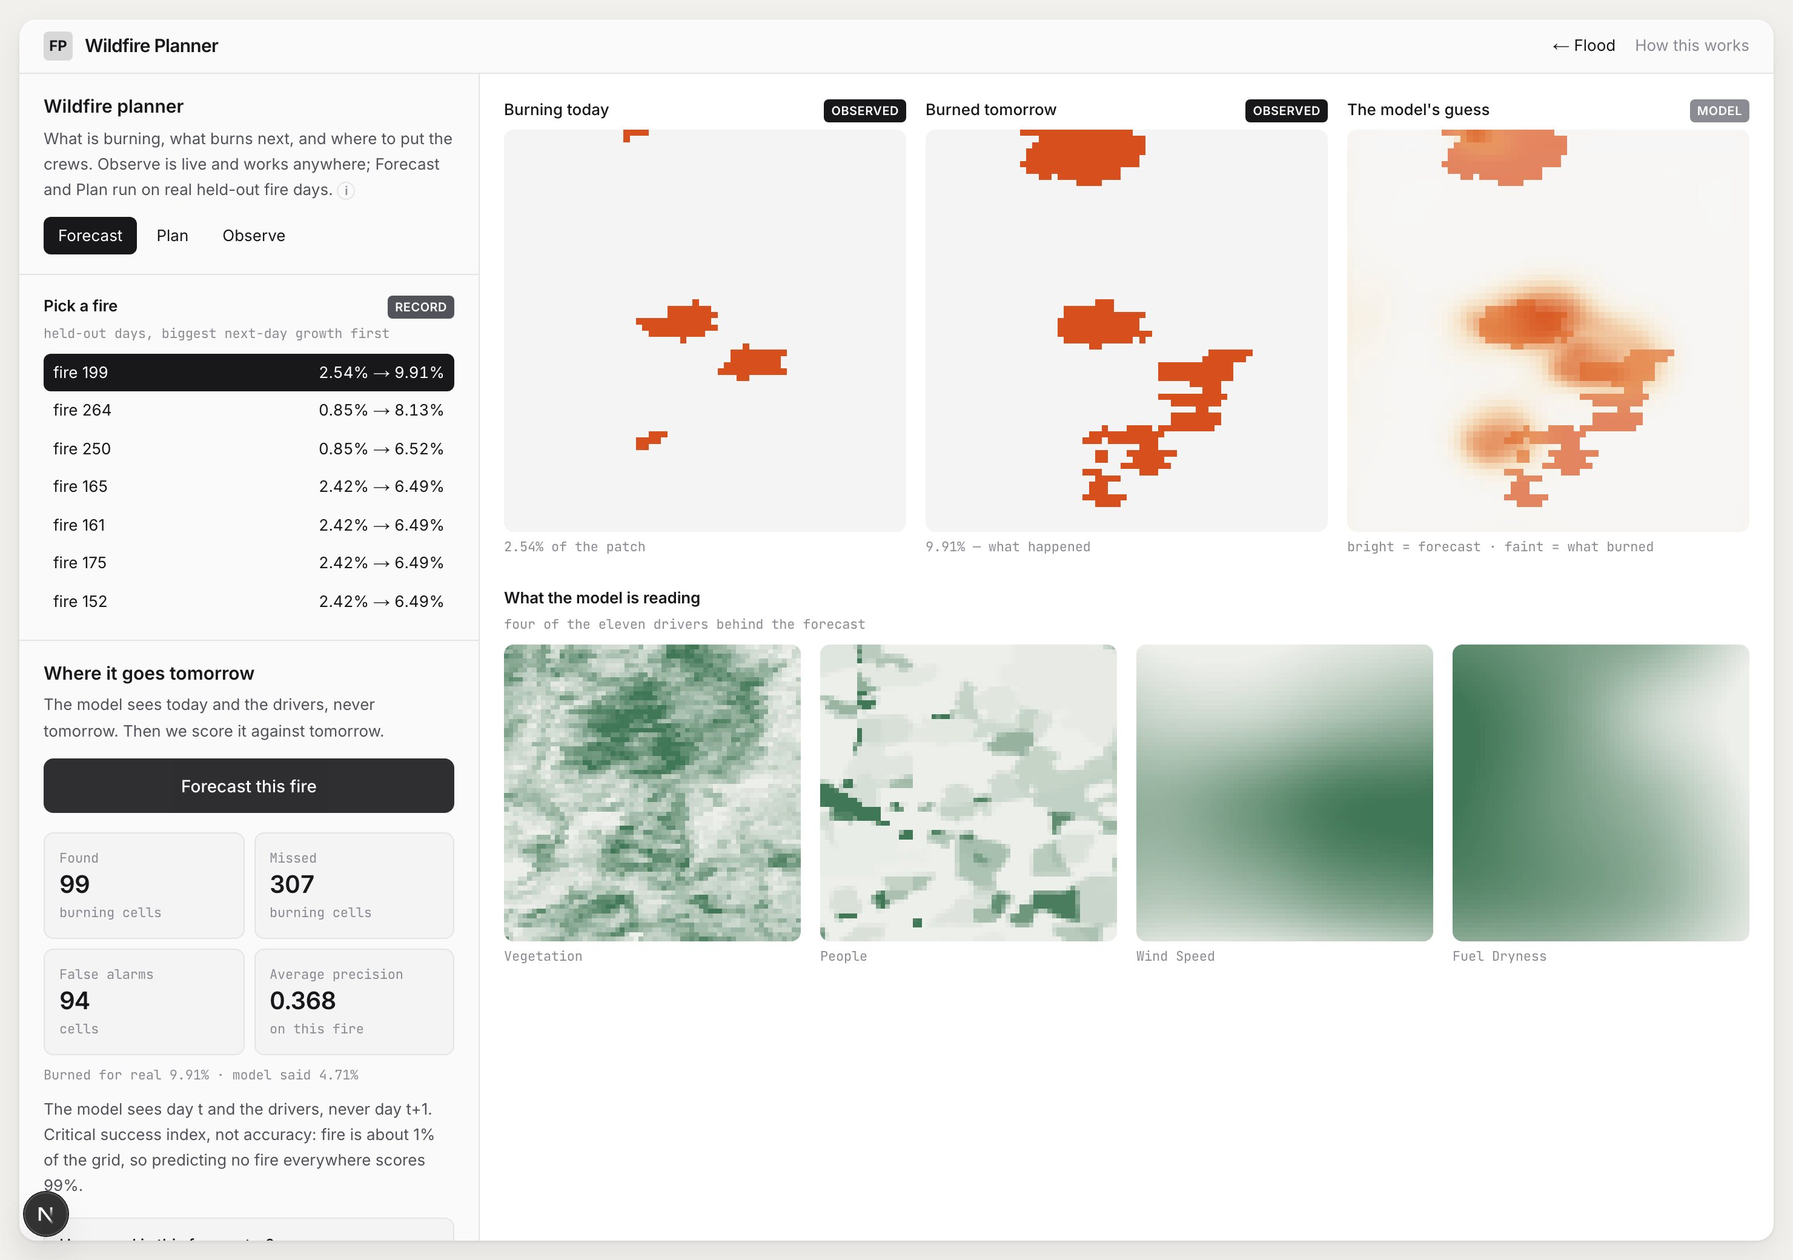
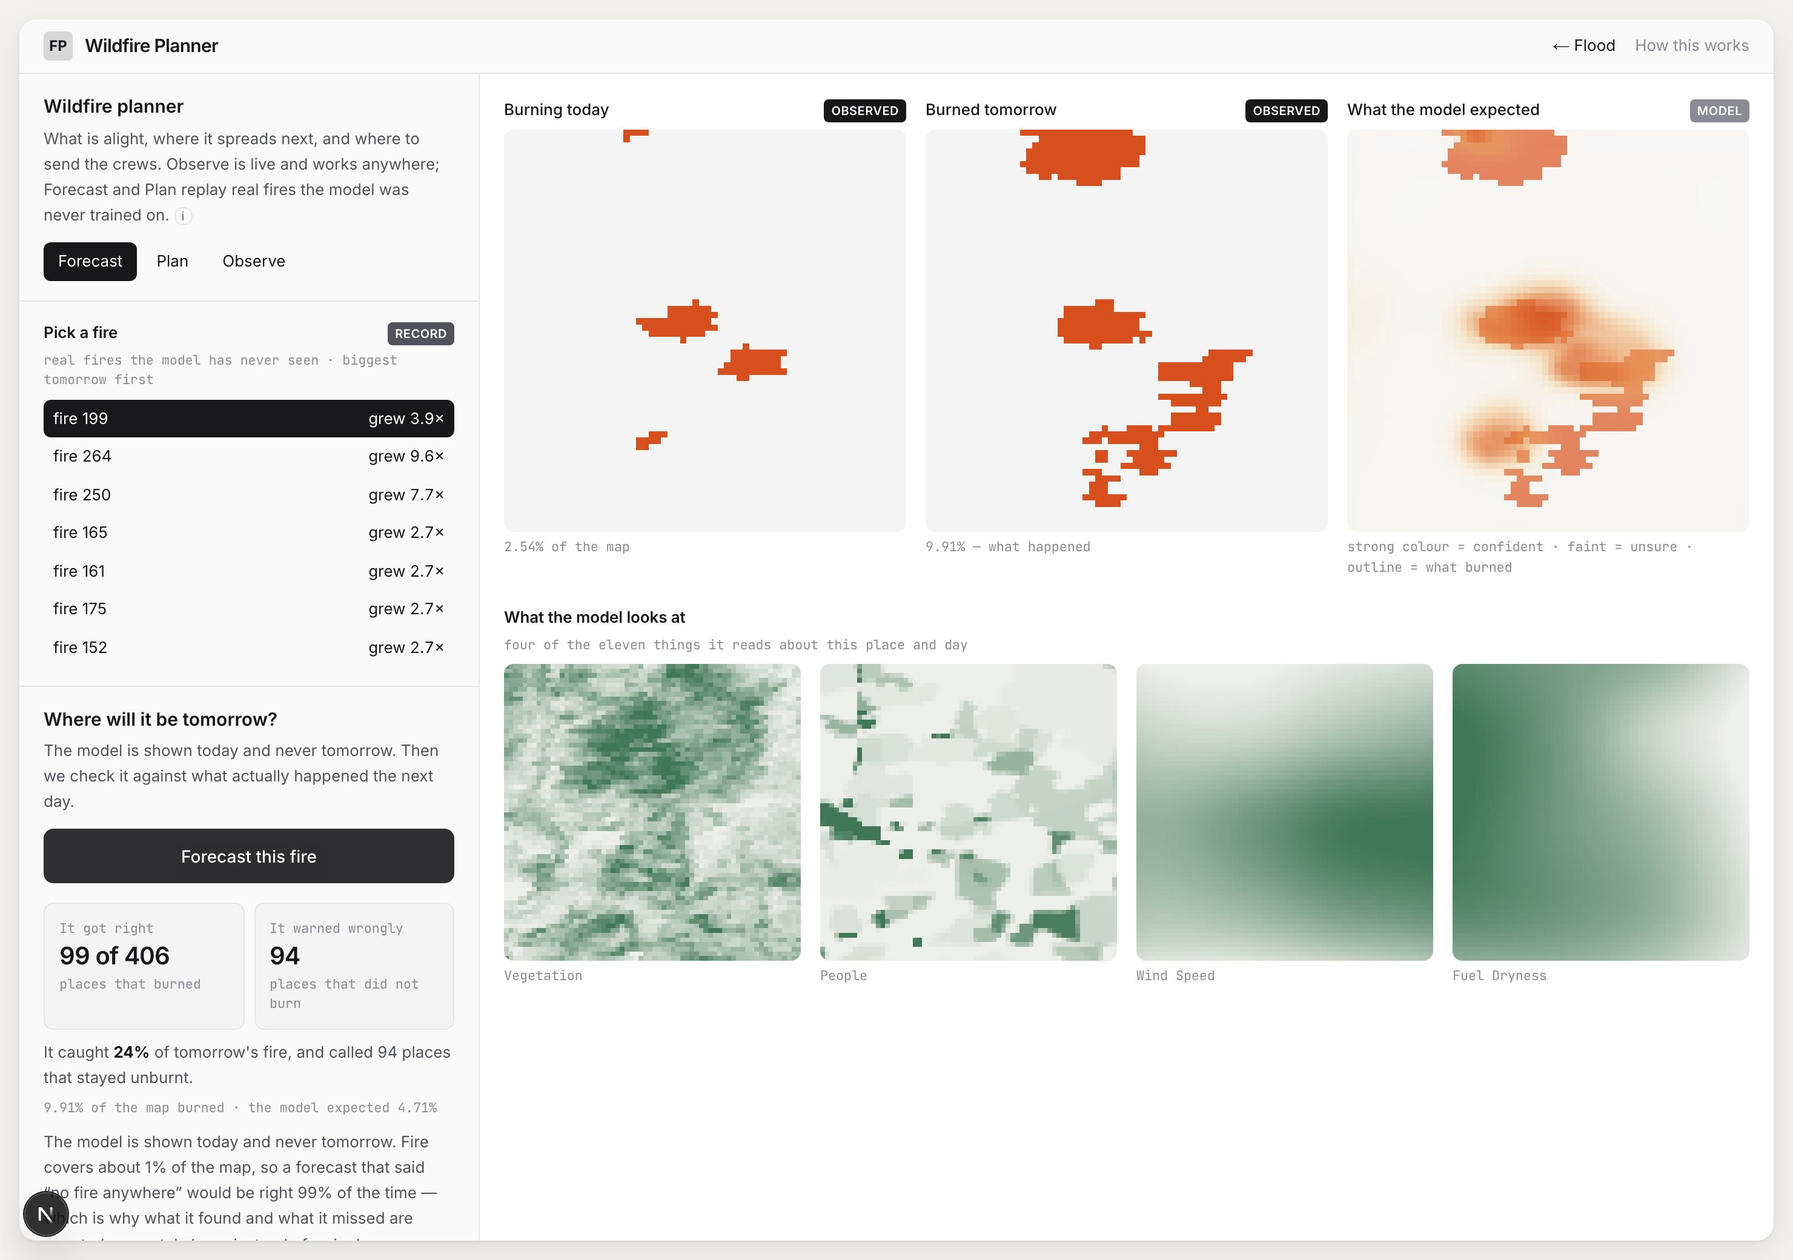
Say it in words a fire manager would use
The wildfire panels were reporting metrics instead of answers. "Average
precision 0.368" and "0.3162 AUC-PR on the held-out split" are things a
reader cannot act on, and naming them does not make the page more honest
-- only harder to argue with.

Every claim is unchanged. Only the vocabulary moved:

  Average precision 0.368        -> It got right 99 of 406 places that
                                   burned, and caught 24% of tomorrow's
                                   fire
  0.3162 AUC-PR vs 0.3790 SOTA   -> better than the forecaster published
                                   with this data, not as good as the
                                   best one anyone has built
  critical success index, not
    accuracy                     -> fire covers about 1% of the map, so
                                   "no fire anywhere" would be right 99%
                                   of the time
  the counterfactual cannot be
    observed                     -> no fire on record ever had a break
                                   cut because we said so, so nobody can
                                   know what would really have happened
  burned, population-weighted    -> less burns than leaving it alone
  held-out records with real
    drivers                      -> real fires the model was never
                                   trained on
  2.54% -> 9.91%                 -> grew 3.9x
  spent 3.0% of the patch        -> used 3.0% of the area
[…]

diff --git a/portal/src/components/FirePlanner.tsx b/portal/src/components/FirePlanner.tsx
@@ -223,23 +223,25 @@ export function FirePlanner() {
         <div className="border-b border-line px-5 py-4">
           <h1 className="text-[15px] font-semibold text-ink">Wildfire planner</h1>
           <p className="mt-1 text-[13px] leading-relaxed text-ink-mute">
-            What is burning, what burns next, and where to put the crews.{" "}
+            What is alight, where it spreads next, and where to send the crews.{" "}
             <span className="text-ink-mute">
-              Observe is live and works anywhere; Forecast and Plan run on real
-              held-out fire days.
+              Observe is live and works anywhere; Forecast and Plan replay real
+              fires the model was never trained on.
             </span>{" "}
             <Explain title="What is live here">
               <p>
-                <strong>Observe</strong> is live and works anywhere: NASA FIRMS
-                serves satellite fire detections for any box on Earth.
+                <strong>Observe</strong> is happening now. NASA satellites pass
+                over every part of the Earth and report what is alight; this
+                tab shows the last week of that, anywhere you point it.
               </p>
               <p>
-                <strong>Forecast</strong> and <strong>Plan</strong> run on
-                held-out records — real US fire days with real drivers and a
-                real trained model, on a day that has already happened. The
-                spread model needs eleven remote-sensing drivers, and those are
-                a prepared dataset rather than a live feed. Forecasting a live
-                box would mean inventing them.
+                <strong>Forecast</strong> and <strong>Plan</strong> use real
+                fires from the past. To predict where a fire goes, the model
+                needs to know the wind, the dryness, the vegetation and seven
+                other things about that exact place and day. Those are
+                collected and published after the fact, not streamed live — so
+                we run on days where they exist, rather than guessing them for
+                today.
               </p>
             </Explain>
           </p>
@@ -266,7 +268,7 @@ export function FirePlanner() {
               <Badge kind="record" />
             </div>
             <p className="anno mt-1">
-              held-out days, biggest next-day growth first
+              real fires the model has never seen · biggest tomorrow first
             </p>
             {/* Six seconds cold: the service parses the held-out split and
                 enough of the training split to recover the driver statistics.
@@ -287,7 +289,7 @@ export function FirePlanner() {
                   >
                     <span>fire {r.id}</span>
                     <span className="tnum">
-                      {r.burning_now_pct}% → {r.burned_next_pct}%
+                      grew {(r.burned_next_pct / Math.max(r.burning_now_pct, 0.01)).toFixed(1)}×
                     </span>
                   </button>
                 </li>
@@ -300,11 +302,11 @@ export function FirePlanner() {
         {tab === "forecast" && (
           <div className="border-b border-line px-5 py-4">
             <h3 className="text-[15px] font-semibold text-ink">
-              Where it goes tomorrow
+              Where will it be tomorrow?
             </h3>
             <p className="mt-1 text-[13px] leading-relaxed text-ink-mute">
-              The model sees today and the drivers, never tomorrow. Then we
-              score it against tomorrow.
+              The model is shown today and never tomorrow. Then we check it
+              against what actually happened the next day.
             </p>
             <button
               className="mt-3 w-full rounded-lg bg-ink px-4 py-3 text-[14px] font-medium
@@ -317,18 +319,33 @@ export function FirePlanner() {
 
             {fc?.ok && (
               <>
+                {/* Counts, not scores. "Average precision 0.368" tells a
+                    reader nothing they can act on; "found 99 of the 406
+                    places that burned" tells them exactly how much to trust
+                    the picture beside it. */}
                 <div className="mt-4 grid grid-cols-2 gap-2">
-                  <Tile label="Found" value={`${fc.hit}`} sub="burning cells" />
-                  <Tile label="Missed" value={`${fc.missed}`} sub="burning cells" />
-                  <Tile label="False alarms" value={`${fc.false_alarm}`} sub="cells" />
                   <Tile
-                    label="Average precision"
-                    value={fc.average_precision == null ? "—" : fc.average_precision.toFixed(3)}
-                    sub="on this fire"
+                    label="It got right"
+                    value={`${fc.hit} of ${(fc.hit ?? 0) + (fc.missed ?? 0)}`}
+                    sub="places that burned"
+                  />
+                  <Tile
+                    label="It warned wrongly"
+                    value={`${fc.false_alarm}`}
+                    sub="places that did not burn"
                   />
                 </div>
-                <p className="anno mt-2 leading-relaxed">
-                  Burned for real {fc.burned_truth_pct}% · model said{" "}
+                <p className="mt-2 text-[13px] leading-relaxed text-ink-mute">
+                  It caught{" "}
+                  <strong className="text-ink">
+                    {Math.round(100 * (fc.hit ?? 0) /
+                      Math.max((fc.hit ?? 0) + (fc.missed ?? 0), 1))}%
+                  </strong>{" "}
+                  of tomorrow&apos;s fire, and called{" "}
+                  {fc.false_alarm} places that stayed unburnt.
+                </p>
+                <p className="anno mt-1.5 leading-relaxed">
+                  {fc.burned_truth_pct}% of the map burned · the model expected{" "}
                   {fc.burned_forecast_pct}%
                 </p>
                 <p className="mt-2 text-[13px] leading-relaxed text-ink-mute">
@@ -343,14 +360,16 @@ export function FirePlanner() {
             {skill?.ok && (
               <div className="mt-4 rounded-lg border border-line bg-bg-inset p-3">
                 <p className="text-[13px] font-medium text-ink">
-                  How good is this forecaster?
+                  How much should you trust it?
                 </p>
                 <p className="mt-1 text-[13px] leading-relaxed text-ink-mute">
-                  {skill.ours?.toFixed(4)} AUC-PR on the held-out split, against{" "}
-                  {skill.originating_baseline?.value} for the dataset&apos;s own
-                  baseline and {skill.state_of_the_art?.[1]?.value} for the
-                  current state of the art. <strong>We are behind the field.</strong>{" "}
-                  Forecast skill is an input to the plan, not the contribution.
+                  Somewhat. Across every fire in the test set it is{" "}
+                  <strong className="text-ink">better</strong> than the
+                  forecaster published with this data, and{" "}
+                  <strong className="text-ink">not as good</strong> as the best
+                  one anyone has built. We did not set out to win at
+                  forecasting: a better model here would make the plans better
+                  without changing anything else.
                 </p>
               </div>
             )}
@@ -362,14 +381,15 @@ export function FirePlanner() {
           <div className="border-b border-line px-5 py-4">
             <h3 className="text-[15px] font-semibold text-ink">Where the crews go</h3>
             <p className="mt-1 text-[13px] leading-relaxed text-ink-mute">
-              A fixed share of the patch can be treated each day. The decision
-              is where — and the comparison that matters is against spreading
-              the same crew-days evenly.
+              Crews can clear only so much ground in a day. The decision is
+              <em> where</em> — so the fair test is not “is it better than
+              doing nothing”, it is “is it better than sending the same crews
+              out evenly”.
             </p>
 
             <label htmlFor="fire-budget" className="mt-3 flex items-baseline justify-between">
-              <span className="eyebrow">Daily crew budget</span>
-              <span className="tnum text-[13px] text-ink">{budget}% of the patch</span>
+              <span className="eyebrow">What the crews can clear in a day</span>
+              <span className="tnum text-[13px] text-ink">{budget}% of the area</span>
             </label>
             <input id="fire-budget" type="range" min={1} max={10} step={1}
                    value={budget} onChange={(e) => setBudget(Number(e.target.value))}
@@ -383,7 +403,8 @@ export function FirePlanner() {
                    value={horizon} onChange={(e) => setHorizon(Number(e.target.value))}
                    className="mt-1 w-full" />
             <p className="anno mt-0.5">
-              at one day a greedy allocation is already optimal
+              planning one day ahead, the obvious choice is already the best
+              one — the gain shows up further out
             </p>
 
             <button
@@ -399,32 +420,37 @@ export function FirePlanner() {
               <>
                 <div className="mt-4 grid grid-cols-2 gap-2">
                   <Tile
-                    label="Against doing nothing"
+                    label="Less burns"
                     value={`−${plan.reduction_vs_none_pct}%`}
-                    sub="burned, population-weighted"
+                    sub="than leaving it alone"
                   />
                   <Tile
-                    label="Against spreading evenly"
+                    label="Better than even cover"
                     value={`−${plan.reduction_vs_uniform_pct}%`}
-                    sub="the comparison that counts"
+                    sub="same crews, chosen places"
                   />
                 </div>
-                <ul className="mt-3">
+                <p className="anno mt-3">
+                  how much burns, with “leave it alone” set to 100
+                </p>
+                <ul className="mt-1">
                   {([["do nothing", plan.burned.none],
-                     ["spread evenly", plan.burned.uniform],
-                     ["planned", plan.burned.planned]] as const).map(([k, v], i) => (
+                     ["crews spread evenly", plan.burned.uniform],
+                     ["crews sent where it counts", plan.burned.planned]] as const).map(([k, v], i) => (
                     <li key={k}
                         className="flex items-baseline justify-between border-b border-line-soft
                                    py-1.5 text-[13px] last:border-0">
                       <span className={i === 2 ? "font-medium text-ink" : "text-ink-mute"}>{k}</span>
-                      <span className="tnum text-ink">{v.toFixed(3)}</span>
+                      <span className="tnum text-ink">
+                        {(100 * v / Math.max(plan.burned!.none, 1e-9)).toFixed(0)}
+                      </span>
                     </li>
                   ))}
                 </ul>
                 <p className="anno mt-2">
-                  spent {(plan.spent_fraction! * 100).toFixed(1)}% of the patch ·{" "}
-                  {plan.within_budget ? "within budget" : "OVER BUDGET"} ·{" "}
-                  {plan.seconds}s
+                  used {(plan.spent_fraction! * 100).toFixed(1)}% of the area ·{" "}
+                  {plan.within_budget ? "inside the budget" : "OVER BUDGET"} ·{" "}
+                  worked out in {plan.seconds}s
                 </p>
                 <p className="mt-2 text-[13px] leading-relaxed text-ink-mute">{plan.note}</p>
               </>
@@ -451,7 +477,7 @@ export function FirePlanner() {
                   <Badge kind="observed" />
                 </div>
                 <Raster png={rec?.burning_now_png} alt="fire today" />
-                <p className="anno mt-1">{rec?.burning_now_pct ?? "—"}% of the patch</p>
+                <p className="anno mt-1">{rec?.burning_now_pct ?? "—"}% of the map</p>
               </figure>
 
               <figure>
@@ -469,13 +495,13 @@ export function FirePlanner() {
                 <figure>
                   <div className="mb-1.5 flex items-baseline justify-between">
                     <figcaption className="text-[13px] font-medium text-ink">
-                      The model&apos;s guess
+                      What the model expected
                     </figcaption>
                     <Badge kind="projection" />
                   </div>
                   <Stack base={fc.truth_png} over={fc.forecast_png} alt="forecast over truth" />
                   <p className="anno mt-1">
-                    bright = forecast · faint = what burned
+                    strong colour = confident · faint = unsure · outline = what burned
                   </p>
                 </figure>
               )}
@@ -490,16 +516,16 @@ export function FirePlanner() {
                   </div>
                   <Stack base={rec?.burning_now_png} over={plan.treatment_png}
                          alt="treatment over fire" />
-                  <p className="anno mt-1">blue = treated · orange = burning now</p>
+                  <p className="anno mt-1">blue = cleared by crews · orange = alight today</p>
                 </figure>
               )}
             </div>
 
             {rec?.drivers && (
               <>
-                <h3 className="eyebrow mt-6">What the model is reading</h3>
+                <h3 className="eyebrow mt-6">What the model looks at</h3>
                 <p className="anno mt-1">
-                  four of the eleven drivers behind the forecast
+                  four of the eleven things it reads about this place and day
                 </p>
                 <div className="mt-2 grid grid-cols-2 gap-4 sm:grid-cols-4">
                   {Object.entries(rec.drivers).map(([k, v]) => (

diff --git a/service/fire.py b/service/fire.py
@@ -228,9 +228,9 @@ def records(limit: int = 24) -> dict:
              "grew": bool(burn[i] > prev[i].mean())}
             for i in order
         ],
-        "note": ("Held-out NDWS records: real US fire days with real drivers. "
-                 "Ranked by how much burns the next day, because a record "
-                 "where nothing burns cannot show a forecast working."),
+        "note": ("Real US fire days the model was never trained on. Biggest "
+                 "next-day growth first, because a fire that barely moves "
+                 "cannot show a forecast working or failing."),
     }
 
 
@@ -279,8 +279,8 @@ def record(req: RecordRequest) -> dict:
         "burns_next_pct": round(float(nxt.mean()) * 100, 2),
         "drivers": shown,
         "evidence": "record",
-        "note": ("A real fire day from the held-out split. Both masks are "
-                 "observed; nothing here is a model output."),
+        "note": ("A real fire, on a real day. Both pictures are what the "
+                 "satellites saw \u2014 nothing here is a prediction."),
     }
 
 
@@ -347,9 +347,11 @@ def forecast(req: RecordRequest) -> dict:
         "burned_forecast_pct": round(float(hard[valid].mean()) * 100, 2) if valid.any() else 0.0,
         "seconds": round(time.time() - t0, 2),
         "evidence": "projection",
-        "note": ("The model sees day t and the drivers, never day t+1. "
-                 "Critical success index, not accuracy: fire is about 1% of "
-                 "the grid, so predicting no fire everywhere scores 99%."),
+        "note": ("The model is shown today and never tomorrow. Fire covers "
+                 "about 1% of the map, so a forecast that said \u201cno fire "
+                 "anywhere\u201d would be right 99% of the time \u2014 which "
+                 "is why what it found and what it missed are counted "
+                 "separately here, instead of a single score."),
     }
 
 
@@ -426,11 +428,13 @@ def plan(req: PlanRequest) -> dict:
         "uniform_reduction_pct": pct(uniform),
         "seconds": round(time.time() - t0, 2),
         "evidence": "projection",
-        "note": ("Every number here is in-model: the burn is what the spread "
-                 "surrogate predicts under each plan. No record contains a "
-                 "fire where a break was cut on our instruction, so the "
-                 "counterfactual cannot be observed. Compare against the "
-                 "uniform row, not the do-nothing row."),
+        "note": ("These are estimates, not outcomes. No fire on record ever "
+                 "had a break cut because we said so, so nobody can know what "
+                 "would really have happened \u2014 the model is comparing "
+                 "plans against each other. Judge it against spreading the "
+                 "crews evenly, not against doing nothing: beating "
+                 "\u201cdo nothing\u201d only shows that treating fuel "
+                 "works at all."),
     }
 
 
@@ -502,10 +506,12 @@ def observe(req: ObserveRequest) -> dict:
         "blind_days": sum(1 for o in seen if not o),
         "seconds": round(time.time() - t0, 2),
         "evidence": "observed",
-        "note": ("VIIRS and MODIS active-fire detections. A day with no "
-                 "satellite coverage is marked unobserved rather than drawn "
-                 "as an empty fire, and each frame is the active front at "
-                 "overpass, not the cumulative burn scar."),
+        "note": ("What two NASA satellites saw as they passed overhead. A "
+                 "day they did not cover is marked \u201cno pass\u201d "
+                 "rather than drawn as an empty map \u2014 not looking and "
+                 "nothing burning are different things. Each picture is the "
+                 "fire burning at that moment, not the total area burned so "
+                 "far."),
     }
 
 
@@ -532,9 +538,9 @@ def skill() -> dict:
             {"name": "SwinUNETR, modular augmentation", "value": 0.3673},
             {"name": "mixed ensemble", "value": 0.3790},
         ],
-        "note": ("Above the dataset's originating baseline and BELOW the "
-                 "current state of the art. Forecast skill is an input to the "
-                 "planning result rather than a contribution: we did not set "
-                 "out to optimise it, and a better spread model would improve "
-                 "the plans without changing the argument."),
+        "note": ("Better than the forecaster published with this dataset, "
+                 "and not as good as the best one anyone has built. We did "
+                 "not set out to win at forecasting \u2014 a better spread "
+                 "model would make the plans better without changing "
+                 "anything we claim."),
     }
